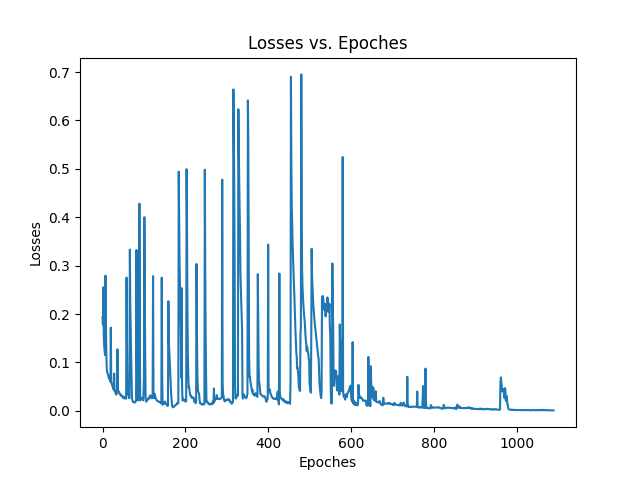
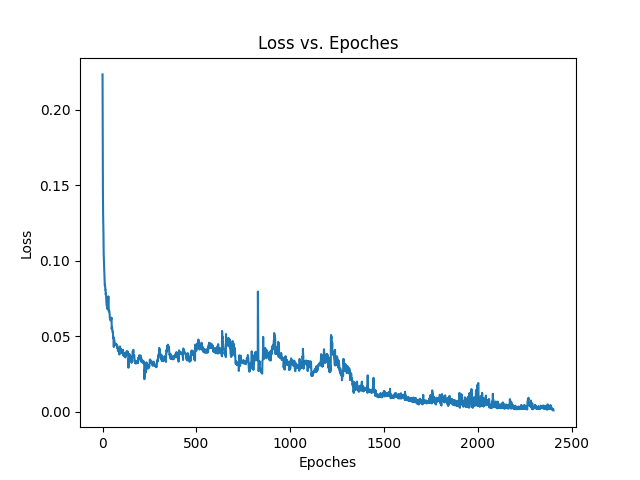
Added a manual seed to DataLoading to make the process reproducible, updated a comment in ModelTraining.py accordingly and pushing the new visualization and model (99.7% accuracy) accordingly.

diff --git a/src/ModelTraining.py b/src/ModelTraining.py
@@ -41,7 +41,7 @@ assert( len(train_x[0]) == len(test_x[0]) )
 
 #Defining a function for MLP.
 #If you run this as is with torch.manual_seed(10) as above and the parameters listed below, you 
-#should get a model with ≈ 99.4% accuracy in a little over 1000 epoches, about 20 minutes of training
+#should get a model with 99.711% accuracy in 2403 epoches, about an hour of training
 #on my machine (Macbook air w/ M2 chip)
 def MLP():
     print(' -- Running MLP model: TRAIN_SIZE = ' + str(TRAIN_SIZE) + ' TEST_SIZE = ' + str(TEST_SIZE) + '.\n')

diff --git a/src/DataLoading.py b/src/DataLoading.py
@@ -33,6 +33,7 @@ Your task is to develop two classifiers, SVMs and MLPs, as accurate as you can.
 import numpy as np
 import scipy
 import joblib #used for joblib.dump and joblib.load
+np.random.seed(10)
 
 print("\n----\nDataLoading.py successfully compiled & run.\n-------\n")
 
